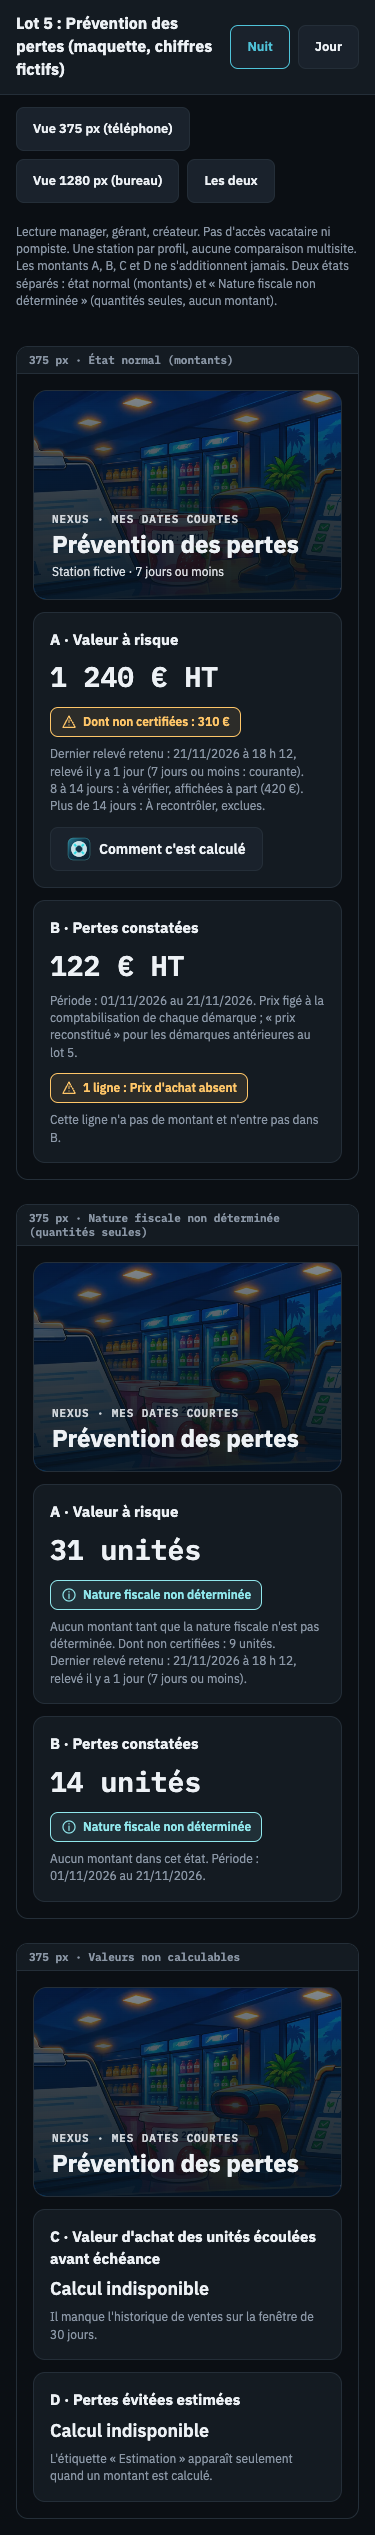
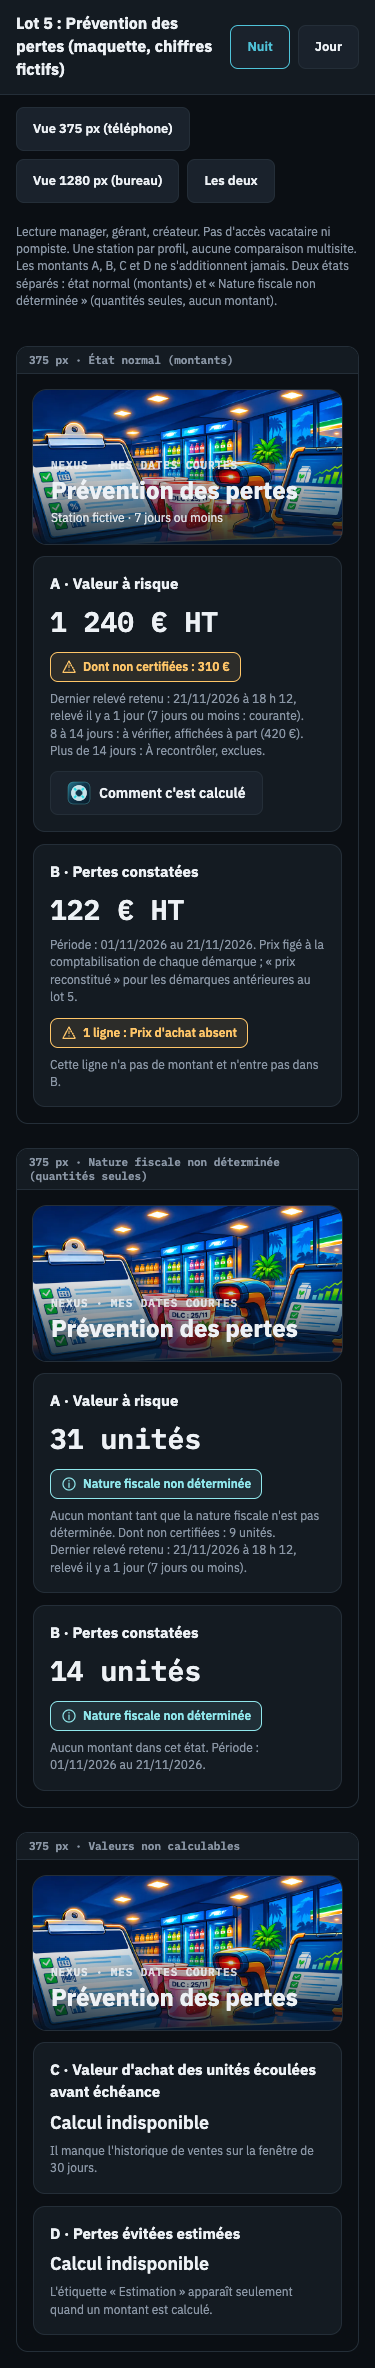
Maquettes Dates courtes : bannière entière dans son cadre (2/1 puis 3/1)

diff --git a/outils/maquettes/dates-courtes/maquettes.css b/outils/maquettes/dates-courtes/maquettes.css
@@ -45,13 +45,12 @@ td.n{font-family:var(--mono);text-align:right}
 .sr{position:absolute;left:-9999px}
 
 /* En-tête illustré : modèle NEXUS-Produits-v1.html (lignes 182-188). Dégradé de lisibilité en rgba littéral, repris à l'identique de Produits. */
-:root{--banniere-cadrage:60% 50%}
-.header{position:relative;margin:12px 16px 0;border-radius:14px;overflow:hidden;border:1px solid var(--hairline);min-height:190px;display:flex;align-items:flex-end;background:#0D202E}
+/* Bannière : le cadre prend la proportion de l'image servie (2/1 téléphone 960x480, 3/1 au-delà), image entière, sans rognage. */
+.header{position:relative;margin:12px 16px 0;border-radius:14px;overflow:hidden;box-shadow:0 0 0 1px var(--hairline);aspect-ratio:3/1;display:flex;align-items:flex-end;background:#0D202E}
 .header picture{position:absolute;inset:0;display:block}
-.header img.entete{position:absolute;inset:0;width:100%;height:100%;object-fit:cover;object-position:var(--banniere-cadrage)}
-.header::after{content:'';position:absolute;inset:0;background:linear-gradient(0deg,rgba(7,19,30,.86) 0%,rgba(7,19,30,.55) 45%,rgba(7,19,30,.15) 100%)}
-:root[data-theme="jour"] .header::after{background:linear-gradient(0deg,rgba(7,19,30,.78) 0%,rgba(7,19,30,.45) 45%,rgba(7,19,30,.08) 100%)}
-@media (max-width:599px){.header{min-height:210px}.header::after,:root[data-theme="jour"] .header::after{background:linear-gradient(0deg,rgba(7,19,30,.94) 0%,rgba(7,19,30,.82) 50%,rgba(7,19,30,.5) 100%)}}
+.header img.entete{position:absolute;inset:0;width:100%;height:100%;object-fit:contain}
+.header::after{content:'';position:absolute;inset:0;background:linear-gradient(0deg,rgba(7,19,30,.85) 0%,rgba(7,19,30,0) 60%)}
+@media (max-width:599px){.header{aspect-ratio:2/1}}
 .header-texte{position:relative;z-index:1;padding:18px;width:100%;color:#EDF1F5}
 .header-texte .eyebrow{font:600 11px var(--mono);letter-spacing:.08em;text-transform:uppercase;opacity:.85}
 .header-texte .title{margin:4px 0 0;font:700 24px/1.2 var(--sans)}

diff --git a/docs/dates-courtes/maquettes-captures/compte-rendu-banniere.md b/docs/dates-courtes/maquettes-captures/compte-rendu-banniere.md
@@ -2,11 +2,13 @@
 
 Correction 7081520147 : la bannière est en haut de chaque cadre d'écran (375 et 1280, lots 2 et 5), à la place du bloc identité (tuile « icône à venir » et titre) ; le bandeau de la page ne garde que son titre de document. Lot 2 à 375 : « Saisies de ma tournée » passe en lignes empilées (produit et date, puis quantité et état, puis raison), sans tableau horizontal, badges non rognés ; le tableau reste à 1280.
 
+Correction 7081667134 : l'image entière est visible dans son cadre. Cadre `aspect-ratio: 2/1` jusqu'à 599 px et `3/1` au-delà, sans `min-height`, `object-fit: contain`, sans `--banniere-cadrage`. Dégradé plus court (0,85 en bas, transparent à 60 % de la hauteur). Rapport largeur sur hauteur mesuré : 2,00 à 375 (source téléphone 960x480) et 3,00 à 1280 (source 1200), sur toutes les bannières des lots 2 et 5, sans bande vide. Titre lisible en Jour et Nuit.
+
 - Référentiel : NEXUS-REFERENTIEL-CONCEPTION v1.0 (skill nexus-design-experience).
 - Composants réutilisés : en-tête `header.header.hero` de NEXUS-Produits-v1.html (picture, source téléphone 599 px, img.entete 800w/1200w/1600w, `sizes`, 1600x533, alt vide car décorative), eyebrow, thème jour/nuit existant.
 - Composant nouveau : aucun côté produit. CSS d'en-tête ajouté à `maquettes.css` seulement (maquettes).
 - Fichiers : `assets/dates-courtes/dates-courtes-banniere-{800,1200,1600}.webp`, `assets/telephone/dates-courtes-telephone.webp`. Seules les deux maquettes `lot-2-saisie.html` et `lot-5-prevention-pertes.html` et `maquettes.css` sont modifiées.
-- Cadrage : `--banniere-cadrage: 60% 50%`. À 375 la source téléphone est servie (vérifié), le scanner reste visible ; le pot « DLC » est visible mais en partie sous le titre.
+- Cadrage : image entière (`object-fit: contain`), plus de recadrage. À 375 la source téléphone est servie (vérifié).
 - Exceptions (couleurs littérales, reprises de Produits, avec raison) : `#0D202E` (fond de repli avant chargement de l'image) et `#EDF1F5` (texte clair posé sur l'image, identique en Jour et Nuit car le fond est un dégradé sombre) ; dégradés en rgba littéraux. Le point « nexus-theme.js ABSENT » sur `maquettes.js` est sans objet (fichier JS, pas une page).
 - États traités : thème Jour et Nuit, 375 et 1280, sans débordement horizontal ; titre lisible dans les deux modes (dégradé renforcé à 375).
 - Lot 5 inchangé sur le fond : certification, « Partiellement reconstitué », « Décider une action » désactivée (lot 6). Rien sur Test ni Production.
